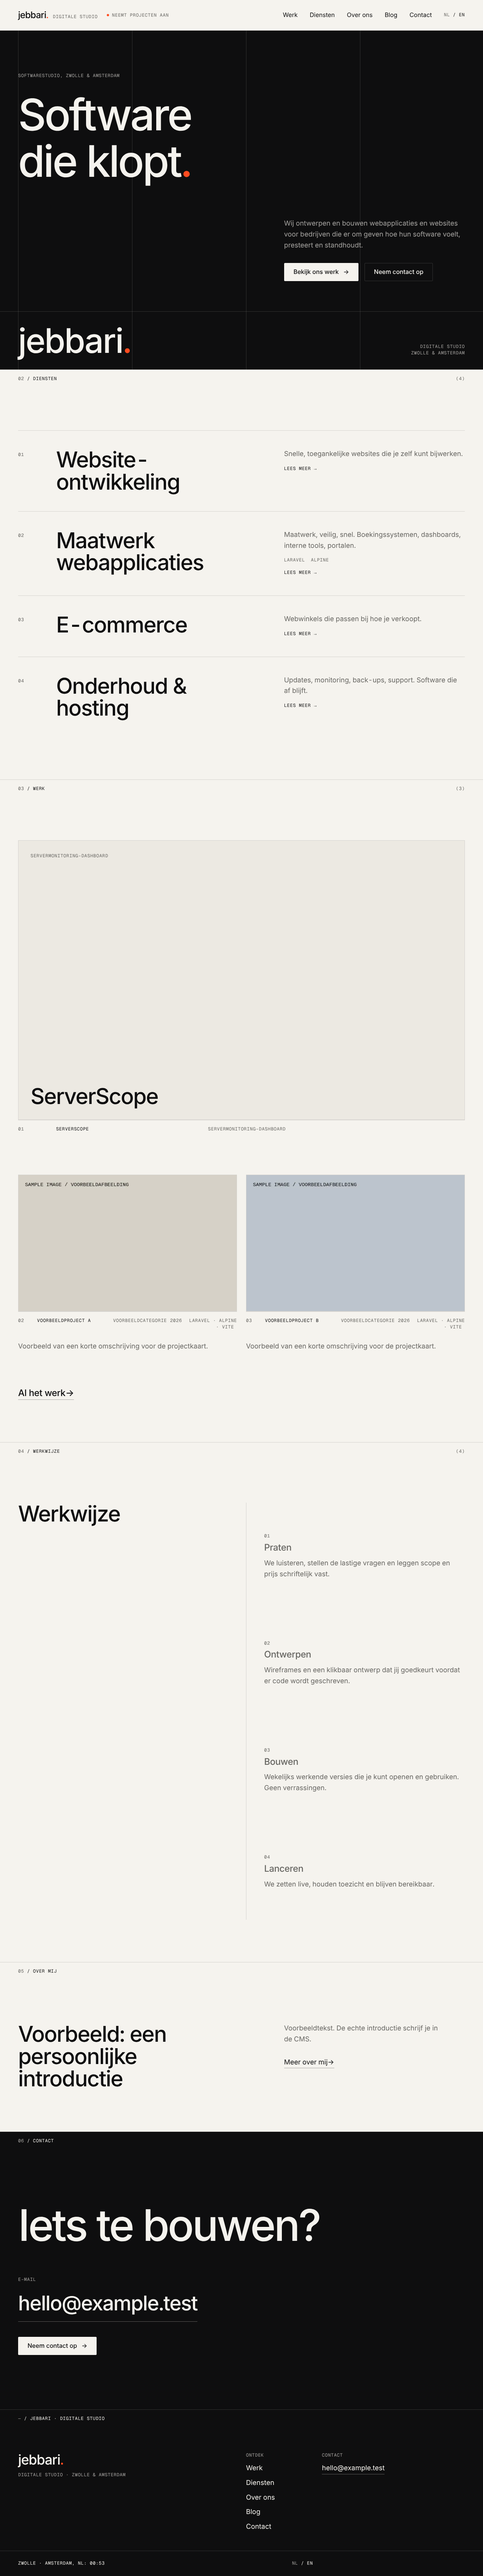
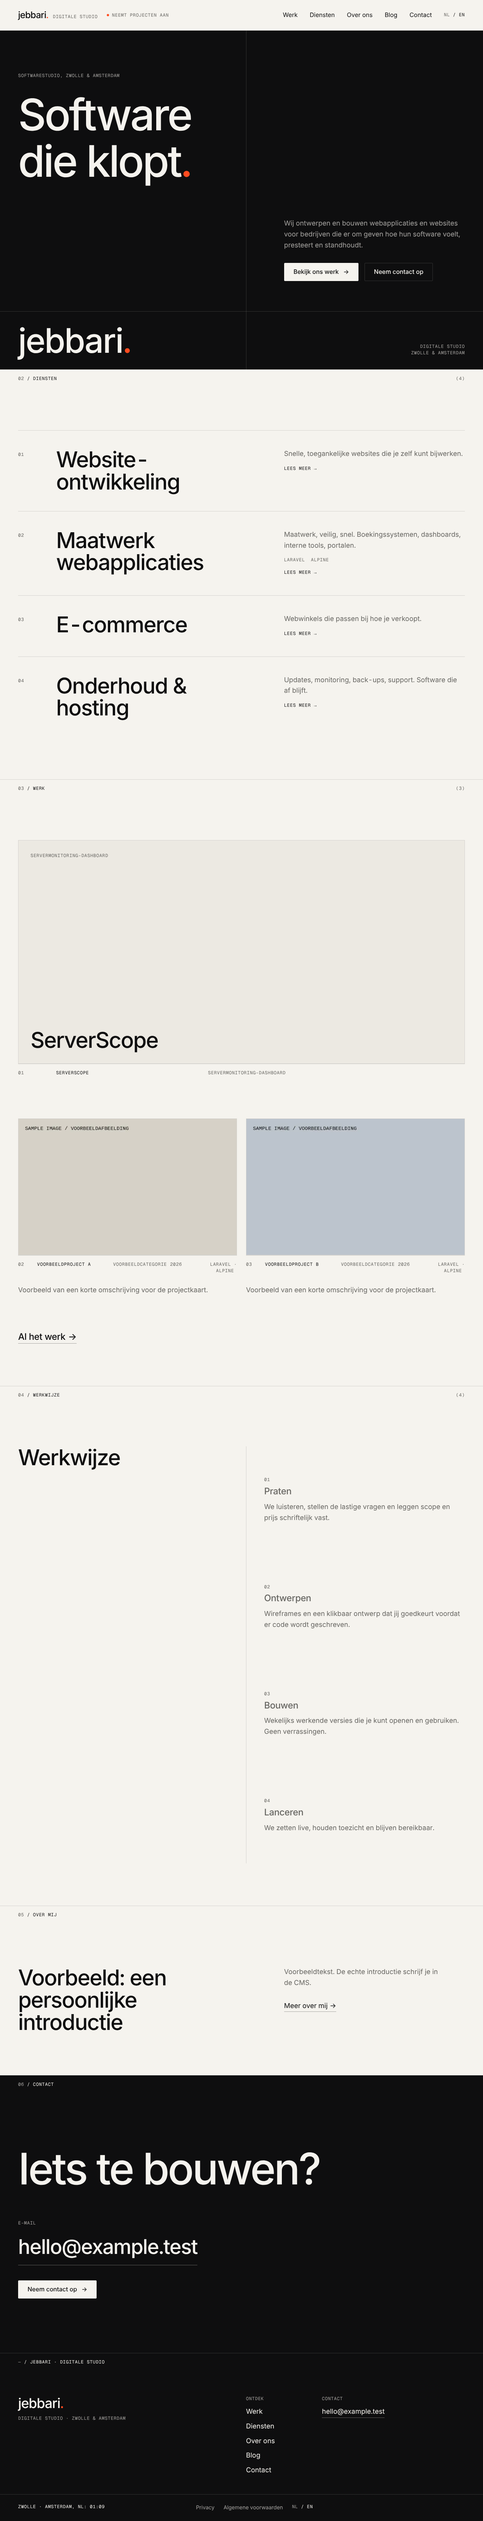
Phase 3: documentation, tablet header and form focus fixes, sample legal text
- docs/PHASE-3.md: what exists, content rules, design decisions, SEO and
  performance results, contact form security, tests, browser limitations
- Open items updated (accent colour decision, content the owner must supply)
- Header no longer wraps at tablet width; the contact form container no longer
  shows a focus outline after submitting
- config/site.php keeps only structural settings (the rest lives in the CMS)
- Browser pass at 390/768/1280/1920 px for 14 pages in both languages:
  CLS 0.0000, no CSP violations, no console errors, no third-party requests
- Screenshots in docs/screenshots/phase-3

Claude-Session: https://claude.ai/code/session_01Bf9gFpkZAMXEWu9qT3VzCM

diff --git a/config/site.php b/config/site.php
@@ -1,14 +1,12 @@
 <?php
 
 /*
- * Site-level facts. Everything the brief marks as owner-supplied is null here
- * and renders as a visible [[ OWNER: ... ]] placeholder until it is filled in.
+ * Structural site settings. Everything an editor can change (company details,
+ * contact email, booking link, social links, status line, navigation, SEO
+ * defaults) lives in the CMS (Filament > Site), not here.
  */
 return [
     'name' => 'Jebbari',
-
-    // Drives the "● Taking on projects" status line in the header.
-    'taking_projects' => true,
 
     'locales' => ['nl', 'en'],
     'default_locale' => 'nl',
@@ -16,16 +14,4 @@ return [
 
     // Set to true once Satoshi woff2 files are added (see resources/fonts/README.md).
     'fonts' => ['satoshi' => false],
-
-    'company' => [
-        'legal_name' => null,   // [[ OWNER: legal name ]]
-        'kvk' => null,          // [[ OWNER: KvK number ]]
-        'btw' => null,          // [[ OWNER: BTW number ]]
-    ],
-
-    'email' => null,            // [[ OWNER: contact email ]]
-    'booking_url' => null,      // [[ OWNER: booking URL ]]
-
-    // label => url. Rendered as plain text links.
-    'social' => [],             // [[ OWNER: social links ]]
 ];

diff --git a/resources/views/partials/header.blade.php b/resources/views/partials/header.blade.php
@@ -16,15 +16,15 @@
     :data-hidden="isHidden"
     class="site-header fixed inset-x-0 top-0 z-40 border-b border-line bg-paper"
 >
-    <div class="page flex h-16 items-center gap-6 md:h-20">
+    <div class="page flex h-16 items-center gap-4 md:h-20 lg:gap-6">
         <a href="{{ $home }}" class="flex items-baseline gap-3 text-2xl" aria-label="{{ config('site.name') }}, {{ __('site.nav.home') }}">
             <x-wordmark />
-            <span class="t-label hidden text-muted md:inline">{{ __('site.descriptor') }}</span>
+            <span class="t-label hidden whitespace-nowrap text-muted lg:inline">{{ __('site.descriptor') }}</span>
         </a>
 
         <x-status class="hidden text-muted xl:flex" />
 
-        <nav aria-label="{{ __('site.nav.label') }}" class="ml-auto hidden items-center gap-8 md:flex">
+        <nav aria-label="{{ __('site.nav.label') }}" class="ml-auto hidden items-center gap-6 whitespace-nowrap lg:gap-8 md:flex">
             @foreach ($links as $item)
                 <a
                     href="{{ $item['url'] }}"

diff --git a/database/seeders/SampleContentSeeder.php b/database/seeders/SampleContentSeeder.php
@@ -140,5 +140,15 @@ class SampleContentSeeder extends Seeder
             ['type' => 'skills', 'data' => ['visible' => true, 'label' => ['nl' => 'Vaardigheden', 'en' => 'Skills'], 'items' => [['name' => ['nl' => 'Voorbeeldvaardigheid', 'en' => 'Sample skill'], 'description' => ['nl' => 'Voorbeeld.', 'en' => 'Sample.']]]]],
         ]]);
         $about->publish();
+
+        // Legal pages: sample text only, so the footer links and the template can be reviewed.
+        foreach (['privacy', 'terms'] as $key) {
+            $legal = Page::where('key', $key)->first();
+            $legal->update(['blocks' => [['type' => 'rich_text', 'data' => ['visible' => true, 'body' => [
+                'nl' => '<h2>Voorbeeldkop</h2><p>Voorbeeldtekst. De echte juridische tekst voeg je toe in de CMS.</p><ul><li>Voorbeeldpunt</li></ul>',
+                'en' => '<h2>Sample heading</h2><p>Sample text. You add the real legal text in the CMS.</p><ul><li>Sample point</li></ul>',
+            ]]]]]);
+            $legal->publish();
+        }
     }
 }

diff --git a/resources/views/pages/contact.blade.php b/resources/views/pages/contact.blade.php
@@ -39,7 +39,7 @@
                     @endif
                 </div>
 
-                <div id="contact-form" class="col-span-12 scroll-mt-28 md:col-span-6" tabindex="-1">
+                <div id="contact-form" class="col-span-12 scroll-mt-28 focus:outline-none md:col-span-6" tabindex="-1">
                     @if ($sent)
                         <div role="status" class="border border-line p-6 md:p-8">
                             <h2 class="t-h3">{{ __('site.contact.sent_title') }}</h2>

diff --git a/docs/PHASE-3.md b/docs/PHASE-3.md
@@ -1,0 +1,68 @@
+# Phase 3: the public website
+
+Status: built, tested and verified in a browser. Not deployed. Awaiting owner review.
+
+## 1. What exists
+
+| Page | URLs (NL / EN) | Content comes from |
+|---|---|---|
+| Homepage | `/nl`, `/en` | Pages > Home: hero, services, selected work, process, about teaser, closing call to action |
+| Work | `/nl/werk`, `/en/work` | Pages > Work (intro) + all published projects |
+| Project | `/nl/werk/{slug}`, `/en/work/{slug}` | Projects (summary, brief, built, outcome, stack, gallery, cover, SEO) |
+| Services | `/nl/diensten`, `/en/services` | Pages > Services + published services and packages |
+| Service | `/nl/diensten/{slug}`, `/en/services/{slug}` | Services (summary, description, benefits, deliverables, timeline, tags, packages, image, SEO) |
+| About | `/nl/over-ons`, `/en/about` | Pages > About (intro, biography, image, skills, experience, principles) |
+| Blog | `/nl/blog`, `/en/blog`, article `/…/blog/{slug}`, category `/nl/blog/categorie/{slug}` `/en/blog/category/{slug}` | Posts and categories |
+| Contact | `/nl/contact`, `/en/contact` | Pages > Contact + Site > Contact settings; submissions go to Inbox |
+| Legal | `/nl/{slug}`, `/en/{slug}` (privacy, terms) | Pages > legal pages |
+| Technical | `/sitemap.xml`, `/robots.txt`, 404 and 429 pages | generated |
+
+Header, footer, navigation, status line, company details, email, booking link, social links and SEO defaults come from Filament (Site menu and Navigation). Interface text (buttons, form labels, accessibility labels, empty states, validation messages) lives in `lang/nl/site.php` and `lang/en/site.php`. **No page copy is hard-coded in Blade.**
+
+## 2. Rules the site follows
+
+- **Only live content is public**, and only in languages where it is complete. Drafts, unpublished changes, scheduled items before their date, deleted posts and anything missing a Dutch or English required field are not shown (404 or omitted). Test: `SiteVisibilityTest`.
+- **Nothing is invented.** A block with no content (no published services, no featured projects, no spec measurements, an empty about teaser) is left out and the section numbers close up. Contact email, booking link, company details, KvK, BTW and social links appear only once entered in the CMS. Structured data contains only entered facts (no address, rating, review or founding date). Test: `HomepageTest::test_no_placeholder_text_ever_reaches_the_public_pages`.
+- **Owner placeholders can never go live.** Any text containing `[[ OWNER: … ]]` blocks publishing, so the draft legal pages cannot be published until completed.
+- **Links never point at pages that are not live** (hero buttons, navigation).
+- **ServerScope** is seeded as a draft with only what the brief states: name and category "Server monitoring dashboard". Publish it in the admin; it then appears as a typographic tile with just those facts. Add year, description, images and a result line yourself when they are verified.
+
+## 3. Design
+
+- **Kept the approved system**: paper and ink palette, Geist Mono labels, hairline structure, section numbers, the motion system (hero line reveal with the full stop landing last, reveals, plates, process timeline, page transition), reduced-motion and strict CSP.
+- **Dark sections**: the hero and the closing call to action plus footer (which flow together as one dark block), so two dark areas per page as the brief allows.
+- **Brand**: wordmark `jebbari.` with the descriptor "Digital studio" (NL "Digitale studio") in the header, hero sign-off, footer and share image.
+- **Not done, needs your decision**: the request mentions "subtle electric blue". The approved palette uses one orange accent (`--signal`) used only for the full stop, status dot, focus ring and link underlines. Switching the accent to blue is a one-line token change in `resources/css/app.css` (check contrast first; blue and orange differ). I did not change the approved identity without asking.
+- No gradients, glass, icon cards, stock imagery, logo walls, counters or carousels.
+
+## 4. CMS changes made for the frontend
+
+- Projects: `summary` (card text); only title and category are required to publish.
+- Services: `benefits`; deliverables are the existing "included" field.
+- Hero block: primary and optional secondary button; new "About me (short)" block for the homepage (hidden until written).
+- Seeder: the four services you named (Website development, Custom web applications, E-commerce, Maintenance & hosting), blog in the navigation, ServerScope, draft legal pages with clearly marked placeholders. All content is a draft; nothing is live until you publish.
+- `SampleContentSeeder` (local only, refuses production): clearly labelled sample projects, articles and text so the design can be reviewed. Run `php artisan db:seed --class=SampleContentSeeder` after the normal seeder.
+
+## 5. SEO and performance
+
+Unique title and description per page and language (CMS override, then template, then defaults), canonical, hreflang with x-default listing only languages where the page exists, Open Graph and Twitter tags, JSON-LD (ProfessionalService, WebSite, Service, CreativeWork, BlogPosting, BreadcrumbList), sitemap with language alternates (drafts, untranslated and noindex pages excluded), dynamic robots.txt with the sitemap address, a typographic default share image (`public/og/default.png`), strict CSP with no inline scripts or styles, no third-party requests, responsive AVIF/WebP images with explicit dimensions, `sizes`, lazy loading below the fold and an eager first image.
+
+Measured in Chromium on the local server (14 pages, both languages, 390/768/1280/1920 px): **layout shift 0.0000 on every page**, no CSP violations, no console errors, no failed or broken requests, no horizontal overflow, every image dimensioned, exactly one `h1` per page. Interactions checked: contact form end to end (inline errors, confirmation), copy-to-clipboard, skip link first in tab order, 2px signal focus ring, mobile menu with Escape, language switch mapping detail pages, reduced motion leaves nothing hidden.
+
+JavaScript on public pages is about 24 KB gzipped (Alpine CSP build plus the motion script). A formal Lighthouse run and a production-build timing were **not** done: Lighthouse is not installed here and there is no production server. The spec-sheet section therefore stays hidden (`config/specs.php` is empty) rather than showing unmeasured numbers.
+
+## 6. Contact form security
+
+Server-side validation in Dutch and English, hidden honeypot field (bots are told it worked and nothing is stored), minimum-time and maximum-age check on an encrypted timestamp, CSRF, rate limit of 3 per minute and 10 per hour per address (friendly 429 page), IP address stored only as a keyed hash, inquiry stored in the CMS inbox before any email is attempted (a mail failure never loses an inquiry), notification to the address set in Site > Contact (skipped if none), no third-party captcha.
+
+## 7. Tests
+
+198 tests pass (`php artisan test`), Pint is clean. New this phase: `SiteVisibilityTest`, `HomepageTest`, `DetailPagesTest`, `ContactFormTest`, `SeoTest`, `PreviewRenderingTest`, `CmsGapsTest`. Existing tests were updated only to publish the site first; none were removed or weakened.
+
+## 8. Browser limitations
+
+Verified in headless Chromium only. Not verified in Safari/WebKit or Firefox, or on real iOS/Android devices. Features to check there: cross-document view transitions (progressive: normal navigation otherwise), CSS scroll-driven process timeline (a small script fills it where unsupported), `:focus-visible` rings, the date and select controls, and image formats (AVIF is skipped on servers that cannot encode it; WebP and the original always exist). The system font is used until Satoshi's files are added, so letter shapes (for example capital I looking like lowercase l in "Iets te bouwen?") differ from the final typography.
+
+## 9. Still needed from you
+
+See `docs/OPEN-ITEMS.md`: real content for every field you want shown (about text and photo, project details and screenshots, outcome lines, prices), contact email, booking link, company, KvK, BTW, social links, legal text, decision on the blue accent, Satoshi files, production hosting facts.

diff --git a/docs/OPEN-ITEMS.md b/docs/OPEN-ITEMS.md
@@ -36,3 +36,15 @@
 - [ ] Admin CSP: Filament and Livewire need `unsafe-inline` and `unsafe-eval`; try Livewire's `csp_safe` mode later if a stricter admin CSP is wanted.
 - [ ] Preview shows a structured content view until the real page layouts exist (arrives with each page phase).
 - [ ] Create the real owner account with `php artisan cms:create-owner` and keep the authenticator recovery codes safe.
+
+## Added in Phase 3 (public site)
+
+- [ ] **Decision: accent colour.** The request mentions "subtle electric blue"; the approved system uses the orange signal. Keep orange, or switch the accent to blue (one token, `--signal`)? Dark hero and closing section are in place either way.
+- [ ] Publish the pages (Home, Work, Services, About, Blog, Contact) in the admin once you have reviewed the Dutch draft translations; nothing is live until you do.
+- [ ] Write the About teaser and About page (personal introduction, background, skills, approach). Only true facts; the site shows nothing until you do.
+- [ ] ServerScope: add year, description, images, link and an honest outcome line (or leave it as name and category only), then publish. Add JF Cuts or other projects the same way.
+- [ ] Review the E-commerce service text (a neutral draft; the brief had none) and add benefits, deliverables, timelines and optional package prices for each service.
+- [ ] Complete and publish the privacy statement and terms (placeholders are blocked from publishing).
+- [ ] Contact email, booking link, company name, KvK, BTW and social links (Site settings); they appear on the site only when filled in.
+- [ ] Test the public site and admin on iPhone, iPad, Safari and Firefox; run Lighthouse on a production build and, if the numbers are good, fill `config/specs.php` to show the "Built to a standard" section.
+- [ ] Add the Satoshi font files.

diff --git a/CLAUDE.md b/CLAUDE.md
@@ -5,8 +5,8 @@ Read `docs/BRIEF.md` in full before writing any code. It is the design and build
 ## Status
 
 - Phase 1 (foundations): done. Phase 1.5 (motion demonstration on `/_style`): done, awaiting review.
-- CMS foundation (Filament admin at /admin) is built and tested: see `docs/CMS-IMPLEMENTATION.md`. Awaiting owner review.
-- Do not start the homepage until the owner approves the CMS foundation. No PR and no deployment without explicit approval.
+- CMS foundation (Filament admin at /admin): approved. See `docs/CMS-IMPLEMENTATION.md`.
+- Phase 3 (public website, all pages, NL/EN, CMS-driven): built and tested, awaiting owner review. See `docs/PHASE-3.md`. Do not start further phases, open a PR or deploy without explicit approval.
 - Do not deploy or open a PR without the owner's approval.
 
 ## Stack
@@ -28,3 +28,6 @@ Laravel 13 (PHP 8.3+), Blade, Tailwind CSS 4 (tokens in `resources/css/app.css`)
 
 - Content editing goes through `saveFromForm()` only (draft rule): never write to live columns of a published record from the admin.
 - Run `php artisan filament:assets` if the admin is unstyled; `composer install` does it automatically.
+
+- Public pages read content only through `App\Content\Site` (published, live values, complete in the visitor's language) and render through `App\Content\Renderer`; never query models directly in views. Missing content is omitted, never replaced by placeholder text.
+- Public HTML must stay CSP-clean: no inline `style`, event handlers or scripts (JSON-LD excepted). `SeoTest` enforces it.
